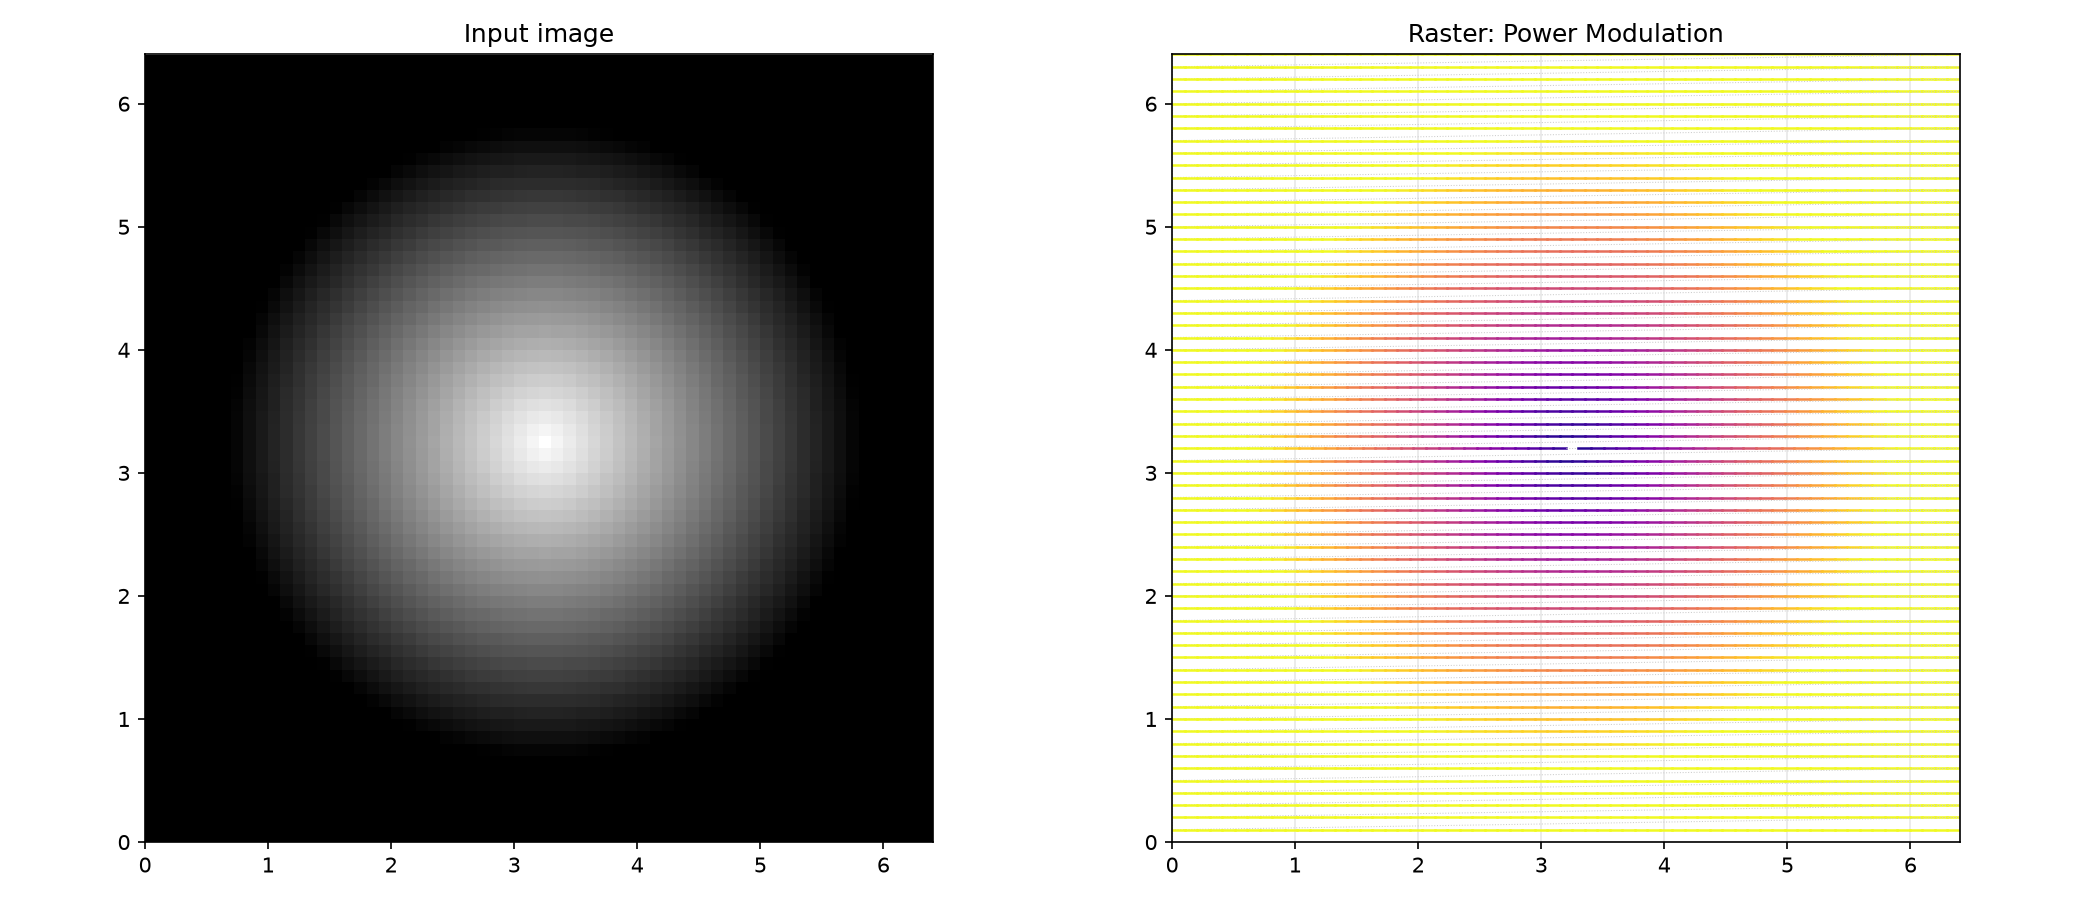
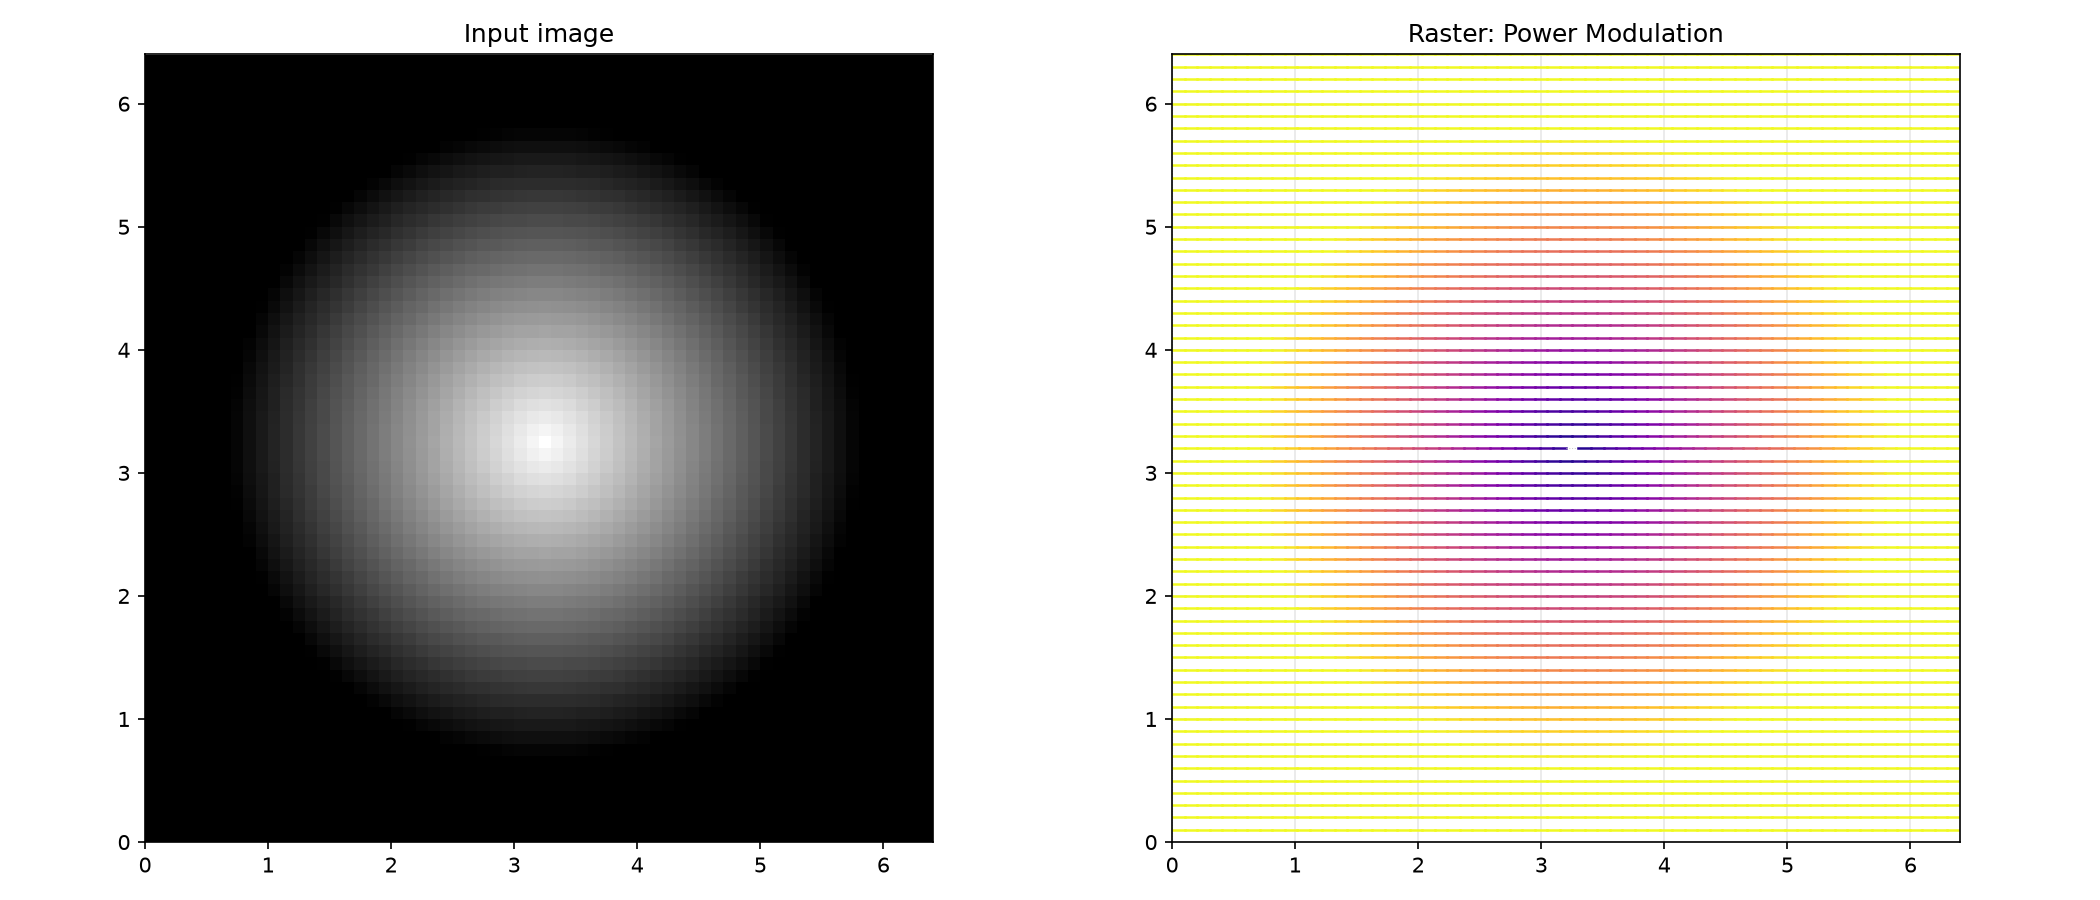
fix: mirror segmented scanline power and stabilize texture stamp coverage
Reversed (odd) scanlines in SEGMENTED mode double-flipped direction:
segment_endpoints_mm already reversed traversal for rev, then
emit_downsampled_scan reversed the downsampled values again, leaving
the scan running left-to-right with a power profile mirrored around
the segment center.

rasterize_horizontal stamped [round(cx), round(cx+dx)]+radius, which
dashed right-to-left sweeps and made segmented rows (whose samples
are re-gridded) alias differently from full-sweep rows. Coverage now
tests pixel centers against the swept interval dilated by the brush
radius, so stamp width no longer depends on scan direction or sample
grid phase.

diff --git a/src/ops/convert/texture.rs b/src/ops/convert/texture.rs
@@ -91,11 +91,19 @@ fn rasterize_horizontal(
 
     for &p in pwr {
         if p > 0 {
-            let mut x0 = cx.round() as i32 - radius_px;
-            let mut x1 = (cx + dx).round() as i32 + radius_px;
-            if x0 > x1 {
-                std::mem::swap(&mut x0, &mut x1);
-            }
+            // A pixel is covered when its center (k + 0.5 in this
+            // coordinate system, matching how the assembler aligns
+            // samples to pixel centers) lies inside the interval
+            // swept by this sample, dilated by the brush radius.
+            // Testing against pixel centers keeps the decision
+            // boundary half a pixel away from the interval endpoints,
+            // so floating point noise in dx cannot flip coverage a
+            // whole pixel (segmented scans re-grid their samples and
+            // previously aliased differently from full-sweep rows).
+            let lo = cx.min(cx + dx) - radius_px as f64;
+            let hi = cx.max(cx + dx) + radius_px as f64;
+            let mut x0 = (lo - 0.5).ceil() as i32;
+            let mut x1 = (hi - 0.5).floor() as i32;
             if x0 < 0 {
                 x0 = 0;
             }

diff --git a/src/ops/convert/image.rs b/src/ops/convert/image.rs
@@ -255,8 +255,14 @@ fn process_power_segmented(
         if power_values[si] == 0 {
             continue;
         }
+        // Endpoints stay in image (left-to-right) order here:
+        // emit_downsampled_scan's ``rev`` handling reverses both the
+        // traversal direction and the power profile consistently.
+        // Passing rev-aware endpoints here as well would flip the
+        // direction twice and mirror the per-sample power values
+        // around the segment center.
         let (seg_start, seg_end) =
-            segment_endpoints_mm(scan_line, si, ei, rev, pixels_per_mm);
+            segment_endpoints_mm(scan_line, si, ei, false, pixels_per_mm);
         let mut seg_values = power_values[si..ei].to_vec();
         apply_dot_width_trim(&mut seg_values, trim_px);
         emit_downsampled_scan(
